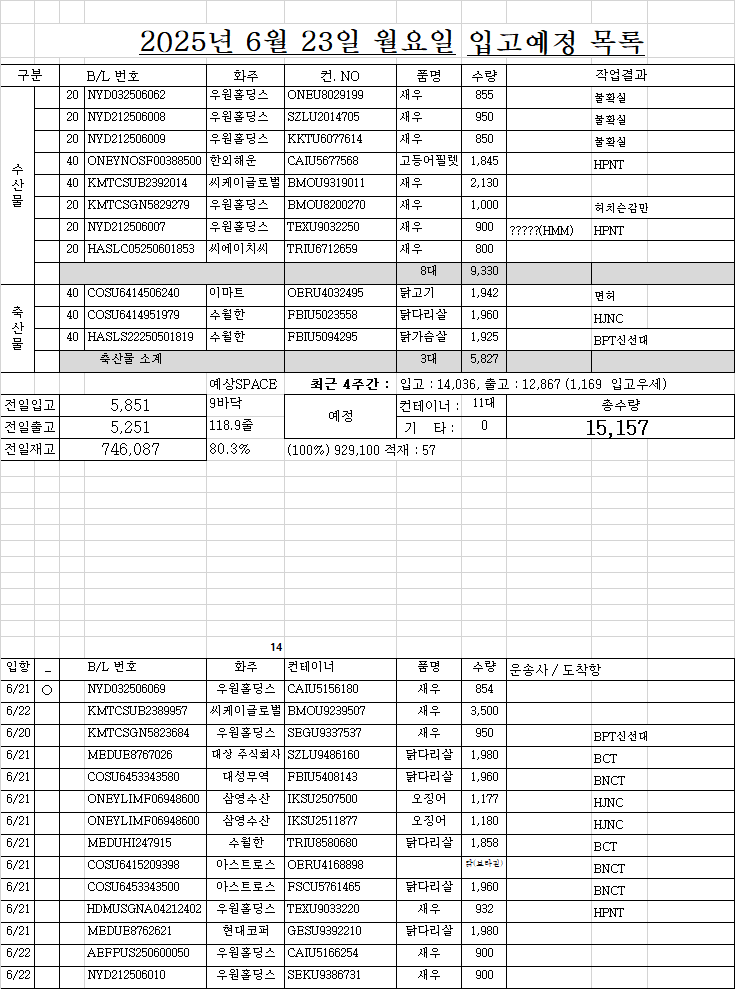
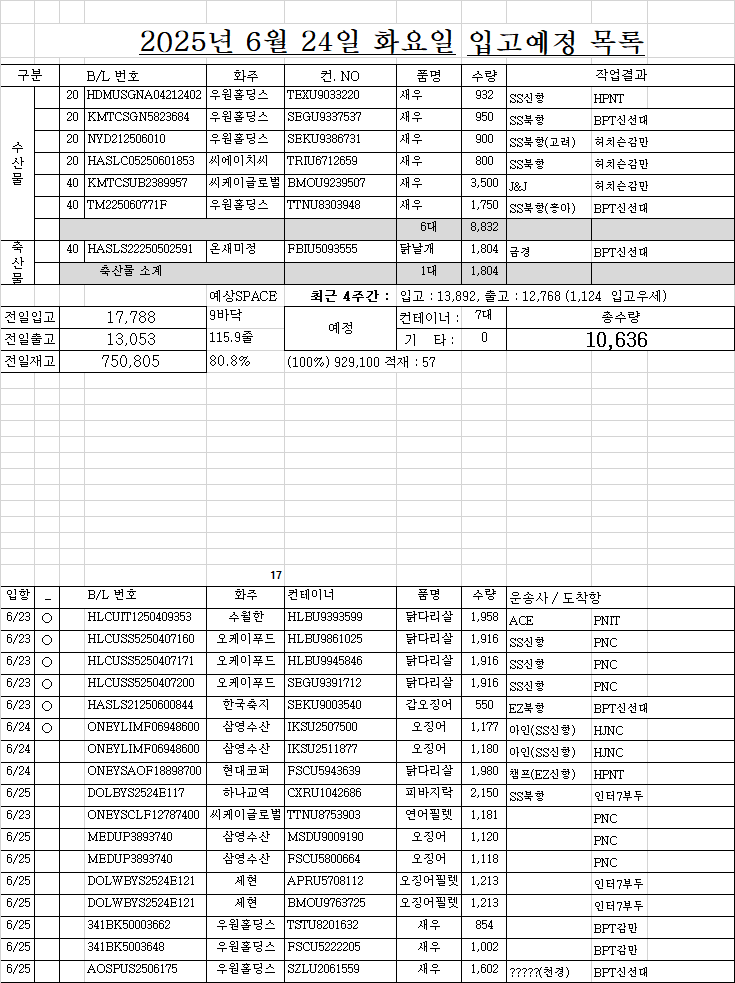
SDFSDFF

Changed region(s): [[0.0, 0.0305, 1.0, 0.5493], [0.0, 0.5799, 1.0, 1.0], [0.0, 0.1526, 0.0299, 0.2136]]

diff --git a/list.html b/list.html
@@ -118,56 +118,53 @@
 </div>
 <!-- ★★★★★★ 따로 빼 놔야한다. 복붙하면 첫칸 비어도 되는데, 여기서는 첫칸비우면 당겨진다. -->
 <!-- ★ 엑셀범위를 브라우저 textarea에 붙여넣으면 첫셀 비어도 제대로 되는데... HTML에 붙여놓은 자료는 처음셀이 비어있으면 당겨짐 -->
-<div class="d-none" id="원본text_리스트1부터w요약열까지">작성	면허	B/LNO.	화주	컨테이너NO.	품명	수량	반입NO.	입항일	구분	도착일	도착시간	구분	운.도VBA	06/20 금 16:33	화찰BL	화찰 선명	화물관리번호	화찰수량	화찰중량	화찰입항	리스트시트기준열	
-1	○	NYD032506062	우원홀딩스	ONEU8029199	새우	855 	불확실	6/20	1	ONE		20 	?????(ONE).BPT신선대		NYD032506062	KMTC DALIAN	25KMTC2163I-5053-0001	855 	8,985.00 	2025.06.20	06/20 금 16:33	
-1	○	NYD212506008	우원홀딩스	SZLU2014705	새우	950 	불확실	6/20	1	ONE		20 	?????(ONE).BPT신선대		NYD212506008	KMTC DALIAN	25KMTC2163I-5012-0001	950 	12,654.00 	2025.06.20	조회정보	
-1	○	NYD212506009	우원홀딩스	KKTU6077614	새우	850 	불확실	6/20	1	ONE		20 	?????(ONE).BPT신선대		NYD212506009	KMTC DALIAN	25KMTC2163I-5013-0001	850 	10,625.00 	2025.06.20	적재	57 
-1	○	ONEYNOSF00388500	한외해운	CAIU5677568	고등어필렛	1,845 	HPNT	6/20	1				HPNT		ONEYNOSF00388500	HMM GARAM	25HDMUA281I-7021-	1,845 	24,907.50 	2025.06.19	4,617 	3줄
-1	○	KMTCSUB2392014	씨케이글로벌	BMOU9319011	새우	2,130 		6/21	1						KMTCSUB2392014	AS PATRIA	25KMTC2161I-0514-	2,130 	10,718.40 	2025.06.20	6,156 	4줄
-1	○	KMTCSGN5829279	우원홀딩스	BMOU8200270	새우	1,000 	허치슨감만	6/21	1			20 	허치슨감만		KMTCSGN5829279	STARSHIP JUPITER	25NSSLF048I-1096-	1,000 	7,200.00 	2025.06.21	7,695 	5줄
-1		NYD212506007	우원홀딩스	TEXU9032250	새우	900 	?????(HMM).HPNT	6/21	1	HMM		20 	?????(HMM).HPNT			HMM HARMONY					9,234 	6줄
-1	○	HASLC05250601853	씨에이치씨	TRIU6712659	새우	800 		6/22	1			20 			HASLC05250601853	SKY ORION	25CKCO0635I-1009-0001	800 	9,400.00 	2025.06.22		
-1	○	COSU6414506240	이마트	OERU4032495	닭고기	1,942 	면허	6/18	2						COSU6414506240	CMA CGM THAMES	25CMAL0306I-3011-	1,942 	24,250.88 	2025.06.18	출고/입고 4주간	
-1	○	COSU6414951979	수월한	FBIU5023558	닭다리살	1,960 	HJNC	6/20	2				HJNC		COSU6414951979	KMTC CHENNAI	25KMTC2115I-2001-	1,960 	24,500.00 	2025.06.20	1일 7/5	5일줄
-1	○	HASLS22250501819	수월한	FBIU5094295	닭가슴살	1,925 	BPT신선대	6/20	2				BPT신선대		HASLS22250501819	KMTC PUSAN	25KMTC2075I-2089-	1,925 	24,640.00 	2025.06.20	12,867 	41.8
-2	○	NYD032506069	우원홀딩스	CAIU5156180	새우	854 		6/21	1			20 			NYD032506069	SM JAKARTA	25SMLM0128I-6009-0001	854 	8,201.00 	2025.06.21	13,895 	45.1
-2		KMTCSUB2389957	씨케이글로벌	BMOU9239507	새우	3,500 		6/22	1												내국제외	
-		KMTCSGN5823684	우원홀딩스	SEGU9337537	새우	950 	BPT신선대	6/20	1			20 	BPT신선대			KMTC DALIAN					구분	대수
-		MEDUE8767026	대상 주식회사	SZLU9486160	닭다리살	1,980 	BCT	6/21	2				BCT			MSC UNITED VIII					수산	31
-		COSU6453343580	대성무역	FBIU5408143	닭다리살	1,960 	BNCT	6/21	2				BNCT			COSCO SHIPPING JASMINE					축산	18
-		ONEYLIMF06948600	삼영수산	IKSU2507500	오징어	1,177 	HJNC	6/21	1				HJNC			YM MODESTY					합계	49
-		ONEYLIMF06948600	삼영수산	IKSU2511877	오징어	1,180 	HJNC	6/21	1				HJNC			YM MODESTY						
-		MEDUHI247915	수월한	TRIU8580680	닭다리살	1,858 	BCT	6/21	2				BCT			MSC UNITED VIII					화주별 요약	
-		COSU6415209398	아스트로스	OERU4168898		닭(브라질)	BNCT	6/21	2				BNCT			COSCO SHIPPING JASMINE					화주	대수
-		COSU6453343500	아스트로스	FSCU5761465	닭다리살	1,960 	BNCT	6/21	2				BNCT			COSCO SHIPPING JASMINE					우원홀딩스	16
-		HDMUSGNA04212402	우원홀딩스	TEXU9033220	새우	932 	HPNT	6/21	1			20 	HPNT			HMM HARMONY					삼영수산	7
-		MEDUE8762621	현대코퍼	GESU9392210	닭다리살	1,980 		6/21	2												수월한	4
-		AEFPUS250600050	우원홀딩스	CAIU5166254	새우	900 		6/22	1			20 									씨케이글로벌	3
-		NYD212506010	우원홀딩스	SEKU9386731	새우	900 		6/22	1			20 									대상 주식회사	3
-		HLCUIT1250409353	수월한	HLBU9393599	닭다리살	1,958 	PNIT	6/23	2				PNIT			IQUIQUE EXPRESS					오케이푸드	3
-		ONEYSCLF12787400	씨케이글로벌	TTNU8753903	연어필렛	1,181 		6/23	1												대성무역	2
-		HLCUSS5250407160	오케이푸드	HLBU9861025	닭다리살	1,916 		6/23	2												아스트로스	2
-		HLCUSS5250407171	오케이푸드	HLBU9945846	닭다리살	1,916 		6/23	2												한외해운	1
-		HLCUSS5250407200	오케이푸드	SEGU9391712	닭다리살	1,916 		6/23	2												씨에이치씨	1
-		TM225060771F	우원홀딩스	TTNU8303948	새우	1,750 	?????(흥아).BPT신선대	6/23	1	흥아		40 	?????(흥아).BPT신선대			SAWASDEE XIAMEN					이마트	1
-		HASLS21250600844	한국축지	SEKU9003540	갑오징어	550 	BPT신선대	6/23	1			20 	BPT신선대			SAWASDEE XIAMEN					현대코퍼	1
-		341BK50003662	우원홀딩스	TSTU8201632	새우	854 		6/24	1			20 									한국축지	1
-		341BK5003648	우원홀딩스	FSCU5222205	새우	1,002 		6/24	1			20 									해솔무역	1
-		AOSPUS2506175	우원홀딩스	SZLU2061559	새우	1,602 		6/24	1			20 									마이푸드	1
-		MEDUP3893740	삼영수산	MSDU9009190	오징어	1,120 	PNIT	6/25	1				PNIT			MSC EMMA					온새미정	1
-		MEDUP3893740	삼영수산	FSCU5800664	오징어	1,118 	PNIT	6/25	1				PNIT			MSC EMMA					하나교역	1
-		PROHCM25060041	우원홀딩스	SEGU9996724	새우	1,000 		6/26	1			20 									합계	49
-		STPUSR25065230	우원홀딩스	SZLU2070144	새우	1,000 		6/26	1			20 										
-		MAEU254359883	해솔무역	MNBU3397934	조기	2,300 	PNC	6/27	1				PNC			MAERSK EL BANCO						
-		COSU6413958740	대상 주식회사	TTNU8076314	닭다리살	1,916 		7/5	2													
-		COSU6413958750	대상 주식회사	SZLU9668776	닭다리살	1,916 		7/5	2													
+<div class="d-none" id="원본text_리스트1부터w요약열까지">작성	면허	B/LNO.	화주	컨테이너NO.	품명	수량	반입NO.	입항일	구분	도착일	도착시간	구분	운.도VBA	06/23 월 16:39	화찰BL	화찰 선명	화물관리번호	화찰수량	화찰중량	화찰입항	리스트시트기준열	
+1	○	HDMUSGNA04212402	우원홀딩스	TEXU9033220	새우	932 	SS신항.HPNT	6/20	1			20 	SS신항.HPNT		HDMUSGNA04212402	HMM HARMONY	25HDMUA294I-0047-	932 	7,083.20 	2025.06.20	06/23 월 16:39	
+1	○	KMTCSGN5823684	우원홀딩스	SEGU9337537	새우	950 	SS북항.BPT신선대	6/20	1			20 	SS북항.BPT신선대		KMTCSGN5823684	KMTC DALIAN	25KMTC2163I-7030-	950 	6,840.00 	2025.06.20	조회정보	
+1	○	NYD212506010	우원홀딩스	SEKU9386731	새우	900 	SS북항(고려).허치슨감만	6/21	1			20 	SS북항(고려).허치슨감만		NYD212506010	SM JAKARTA	25SMLM0128I-3524-0001	900 	10,800.00 	2025.06.21	적재	57 
+1	○	HASLC05250601853	씨에이치씨	TRIU6712659	새우	800 	SS북항.허치슨감만	6/22	1			20 	SS북항.허치슨감만		HASLC05250601853	SKY ORION	25CKCO0635I-1009-0001	800 	9,400.00 	2025.06.22	4,617 	3줄
+1	○	KMTCSUB2389957	씨케이글로벌	BMOU9239507	새우	3,500 	J&J.허치슨감만	6/22	1				J&J.허치슨감만		KMTCSUB2389957	KMTC HAIPHONG	25KMTC2157I-0031-	3,500 	6,393.75 	2025.06.22	6,156 	4줄
+1	○	TM225060771F	우원홀딩스	TTNU8303948	새우	1,750 	SS북항(흥아).BPT신선대	6/23	1	흥아		40 	SS북항(흥아).BPT신선대		TM225060771F	SAWASDEE XIAMEN	25SNKO2276I-2048-0001	1,750 	20,650.00 	2025.06.23	7,695 	5줄
+1	○	HASLS22250502591	온새미정	FBIU5093555	닭날개	1,804 	금경.BPT신선대	6/20	2				금경.BPT신선대		HASLS22250502591	KMTC PUSAN	25KMTC2075I-2102-	1,804 	19,654.58 	2025.06.20	9,234 	6줄
+2	○	HLCUIT1250409353	수월한	HLBU9393599	닭다리살	1,958 	ACE.PNIT	6/23	2				ACE.PNIT		HLCUIT1250409353	IQUIQUE EXPRESS	25HLCU8407I-0041-	1,958 	24,728.79 	2025.06.23		
+2	○	HLCUSS5250407160	오케이푸드	HLBU9861025	닭다리살	1,916 	SS신항.PNC	6/23	2				SS신항.PNC		HLCUSS5250407160	MAERSK TAIKUNG	25MAEU0426I-7005-	1,916 	24,187.58 	2025.06.23	출고/입고 4주간	
+2	○	HLCUSS5250407171	오케이푸드	HLBU9945846	닭다리살	1,916 	SS신항.PNC	6/23	2				SS신항.PNC		HLCUSS5250407171	MAERSK TAIKUNG	25MAEU0426I-7006-	1,916 	24,187.58 	2025.06.23	1일 7/5	5일줄
+2	○	HLCUSS5250407200	오케이푸드	SEGU9391712	닭다리살	1,916 	SS신항.PNC	6/23	2				SS신항.PNC		HLCUSS5250407200	MAERSK TAIKUNG	25MAEU0426I-7007-	1,916 	24,187.58 	2025.06.23	12,378 	40.2
+2	○	HASLS21250600844	한국축지	SEKU9003540	갑오징어	550 	EZ북항.BPT신선대	6/23	1			20 	EZ북항.BPT신선대		HASLS21250600844	SAWASDEE XIAMEN	25SNKO2276I-2049-	550 	1,936.00 	2025.06.23	13,808 	44.9
+2	○	ONEYLIMF06948600	삼영수산	IKSU2507500	오징어	1,177 	아인(SS신항).HJNC	6/24	1				아인(SS신항).HJNC		ONEYLIMF06948600	YM MODESTY	25YMJA0115I-5031-	2,357 	49,790.00 	2025.06.24	내국제외	
+2		ONEYLIMF06948600	삼영수산	IKSU2511877	오징어	1,180 	아인(SS신항).HJNC	6/24	1				아인(SS신항).HJNC			YM MODESTY					구분	대수
+2		ONEYSAOF18898700	현대코퍼	FSCU5943639	닭다리살	1,980 	챔프(EZ신항).HPNT	6/24	2				챔프(EZ신항).HPNT			HMM TOPAZ					수산	29
+2		DOLBYS2524E117	하나교역	CXRU1042686	피바지락	2,150 	SS북항.인터7부두	6/25	1				SS북항.인터7부두			YONG SHENG 158					축산	17
+		ONEYSCLF12787400	씨케이글로벌	TTNU8753903	연어필렛	1,181 	PNC	6/23	1				PNC			MSC IVA					합계	46
+		MEDUP3893740	삼영수산	MSDU9009190	오징어	1,120 	PNC	6/25	1				PNC			MSC MICHELLE						
+		MEDUP3893740	삼영수산	FSCU5800664	오징어	1,118 	PNC	6/25	1				PNC			MSC MICHELLE					화주별 요약	
+		DOLWBYS2524E121	세현	APRU5708112	오징어필렛	1,213 	인터7부두	6/25	1				인터7부두			YONG SHENG 158					화주	대수
+		DOLWBYS2524E121	세현	BMOU9763725	오징어필렛	1,213 	인터7부두	6/25	1				인터7부두			YONG SHENG 158					우원홀딩스	11
+		341BK50003662	우원홀딩스	TSTU8201632	새우	854 	BPT감만	6/25	1			20 	BPT감만			TS HOCHIMINH					삼영수산	7
+		341BK5003648	우원홀딩스	FSCU5222205	새우	1,002 	BPT감만	6/25	1			20 	BPT감만			TS HOCHIMINH					씨케이글로벌	4
+		AOSPUS2506175	우원홀딩스	SZLU2061559	새우	1,602 	?????(천경).BPT신선대	6/25	1	천경		20 	?????(천경).BPT신선대			SAWASDEE SIRIUS					오케이푸드	3
+		COSU6453343580	대성무역	FBIU5408143	닭다리살	1,960 	DGT	6/26	2				DGT			SONG YUN HE(AK8)					대상 주식회사	3
+		COSU6415209398	아스트로스	OERU4168898		닭(브라질)	DGT	6/26	2				DGT			SONG YUN HE(AK8)					수월한	2
+		COSU6453343500	아스트로스	FSCU5761465	닭다리살	1,960 	DGT	6/26	2				DGT			SONG YUN HE(AK8)					현대코퍼	2
+		PROHCM25060041	우원홀딩스	SEGU9996724	새우	1,000 	?????(장금).BPT신선대	6/26	1	장금		20 	?????(장금).BPT신선대			PEGASUS PROTO					세현	2
+		STPUSR25065230	우원홀딩스	SZLU2070144	새우	1,000 	?????(동진).BPT신선대	6/26	1	동진		20 	?????(동진).BPT신선대			PEGASUS PROTO					대성무역	2
+		SNKO190250600221	뉴아시아	FBIU5088749	닭고기	1,925 	BPT신선대	6/27	2				BPT신선대			SAWASDEE SPICA					아스트로스	2
+		ONEYSAOF21804904	마이푸드	CAIU5536908	닭다리살	1,960 	HPNT	6/27	2				HPNT			HMM EMERALD					씨에이치씨	1
+		HNSGN250566010	우원홀딩스	SZLU3640180	새우	491 	?????(흥아).허치슨감만	6/27	1	흥아		20 	?????(흥아).허치슨감만			KMTC XIAMEN					온새미정	1
+		NSGS82506154	우원홀딩스	EMCU5804950	새우	680 	?????(에버).BPT신선대	6/27	1	에버		20 	?????(에버).BPT신선대			SAWASDEE SPICA					한국축지	1
+		MAEU254359883	해솔무역	MNBU3397934	조기	2,300 	PNC	6/27	1				PNC			MAERSK EL BANCO					하나교역	1
+		MEDUE8767026	대상 주식회사	SZLU9486160	닭다리살	1,980 	PNIT	6/28	2				PNIT			MSC KALAMATA VII					뉴아시아	1
+		MEDUHI247915	수월한	TRIU8580680	닭다리살	1,858 	PNIT	6/28	2				PNIT			MSC KALAMATA VII					마이푸드	1
+		MEDUE8762621	현대코퍼	GESU9392210	닭다리살	1,980 	PNIT	6/28	2				PNIT			MSC KALAMATA VII					해솔무역	1
+		SCL500213800	(유)SM무역	BEAU9733979	오징어	1,200 	BCT	6/30	1				BCT			YM EXCELLENCE					(유)SM무역	1
+		MEDUFJ277674	씨케이글로벌	TEMU9519348	열빙어등	1,633 	PNIT	7/2	1				PNIT			MSC REN V					합계	46
+		MEDUFJ277708	씨케이글로벌	TEMU9519348	북방대합	272 	PNIT	7/2	1				PNIT			MSC REN V						
+		COSU6413958740	대상 주식회사	TTNU8076314	닭다리살	1,916 	BNCT	7/5	2				BNCT			COSCO FAITH						
+		COSU6413958750	대상 주식회사	SZLU9668776	닭다리살	1,916 	BNCT	7/5	2				BNCT			COSCO FAITH						
 		COSU6453343970	대성무역	SZLU9213859	닭다리살	1,960 	BNCT	7/5	2				BNCT			COSCO FAITH						
-		LMM0526832	삼영수산	CGMU8030529	오징어	1,100 		7/5	1							CMA CGM APOLLON						
+		LMM0526832	삼영수산	CGMU8030529	오징어	1,100 		7/6	1							CMA CGM APOLLON						
 		LMM0526838	삼영수산	TLLU1059720	오징어	1,150 		7/9	1							CMA CGM GANGES						
-		LMM0528078	삼영수산	TEMU9217501	오징어	1,100 		7/9	1							CMA CGM GANGES						
-		ONEYSAOF21804904	마이푸드	CAIU5536908	닭다리살	1,960 			2													
-		HASLS22250502591	온새미정	FBIU5093555	닭날개	1,804 			2													
-		DOLBYS2524E117	하나교역	CXRU1042686	피바지락	2,150 			1													
+		LMM0528078	삼영수산	TEMU9217501	오징어	1,100 		7/9	1							 						
 </div>
 <div class="d-none" id="원본text_입항관리도크부터도착항우측까지">도크	화주	컨테이너	작업순서	상세내용 참조		운송사	물품		06/05 목 16:15	B/L	도착항	상세내용
 </div>   
